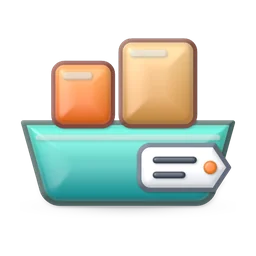
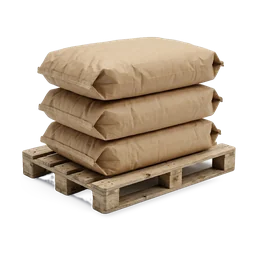
Liberación de producto 9.29: íconos fotorrealistas del pedido 2, lotes 4 y 5 (17 del menú)

diff --git a/index.html b/index.html
@@ -19,7 +19,7 @@
 
   <!-- Rutas relativas: la app también se sirve en /liberacion/ dentro del Portal Pet's Table -->
   <link rel="apple-touch-icon" sizes="180x180" href="notif/apple-180.png?v=21">
-  <meta http-equiv="Content-Security-Policy" content="default-src 'self'; script-src 'self' https://cdn.jsdelivr.net 'sha256-/g63voRsRjoeOzB1C2AihxgQVjf27gnAOs7nSojwdCM=' 'sha256-3EDWucqpc0Zuod2KlRElgKmr38y/l89OWNps/2OI3Lw=' 'sha256-i+PBRC2T2Y+A7gRKGdftQ2kT+LpHxY+oX1rmzFXGBT4='; style-src 'self' 'unsafe-inline' https://fonts.googleapis.com; font-src https://fonts.gstatic.com; img-src 'self' data: blob: https://portal-petstable.vercel.app https://domumnsezocubigfqwry.supabase.co; connect-src 'self' https://domumnsezocubigfqwry.supabase.co wss://domumnsezocubigfqwry.supabase.co; manifest-src 'self'; worker-src 'self'; base-uri 'self'; form-action 'self'; object-src 'none'">
+  <meta http-equiv="Content-Security-Policy" content="default-src 'self'; script-src 'self' https://cdn.jsdelivr.net 'sha256-/g63voRsRjoeOzB1C2AihxgQVjf27gnAOs7nSojwdCM=' 'sha256-cOtkLNe+Gha3MNIfa7HRfh4SYiucv26FxlnfuLeQ3jk=' 'sha256-Vlc2X7/pQe4kFqj33LJEJOGZvjQfPWVqiRLwOKzKQtQ='; style-src 'self' 'unsafe-inline' https://fonts.googleapis.com; font-src https://fonts.gstatic.com; img-src 'self' data: blob: https://portal-petstable.vercel.app https://domumnsezocubigfqwry.supabase.co; connect-src 'self' https://domumnsezocubigfqwry.supabase.co wss://domumnsezocubigfqwry.supabase.co; manifest-src 'self'; worker-src 'self'; base-uri 'self'; form-action 'self'; object-src 'none'">
[1 lines of base64/hex data omitted]
   <link rel="manifest" href="manifest.webmanifest">
 
@@ -3188,7 +3188,7 @@ html:not(.en-portal) .portal-btn { display: none !important; }
 window.BROM_CONFIG = {
   SUPABASE_URL: "https://domumnsezocubigfqwry.supabase.co",
   SUPABASE_ANON_KEY: "sb_publishable_CDb37asQiekme1SuDnIANw_csZ5ZNRh",
-  APP_VERSION: "9.28"
+  APP_VERSION: "9.29"
 };</script>
   <script>(function () {
 'use strict';
@@ -3286,7 +3286,7 @@ const ICONOS_3D = new Set([ // Paquete de imágenes realistas (v1, 43 imágenes)
   'no_conforme', 'paquete', 'personas', 'puesto', 'recepcion', 'receta', 'reloj', 'revertido', 'sensorial', 
   'tableta',
 ]);
-const ICO3D_VER = '4';
+const ICO3D_VER = '5';
 function con3d(n) { return !!n && ICONOS_3D.has(n); }
 document.addEventListener('error', (e) => {
   const img = e.target;

diff --git a/public/js/config.js b/public/js/config.js
@@ -7,5 +7,5 @@
 window.BROM_CONFIG = {
   SUPABASE_URL: "https://domumnsezocubigfqwry.supabase.co",
   SUPABASE_ANON_KEY: "sb_publishable_CDb37asQiekme1SuDnIANw_csZ5ZNRh",
-  APP_VERSION: "9.28"
+  APP_VERSION: "9.29"
 };
